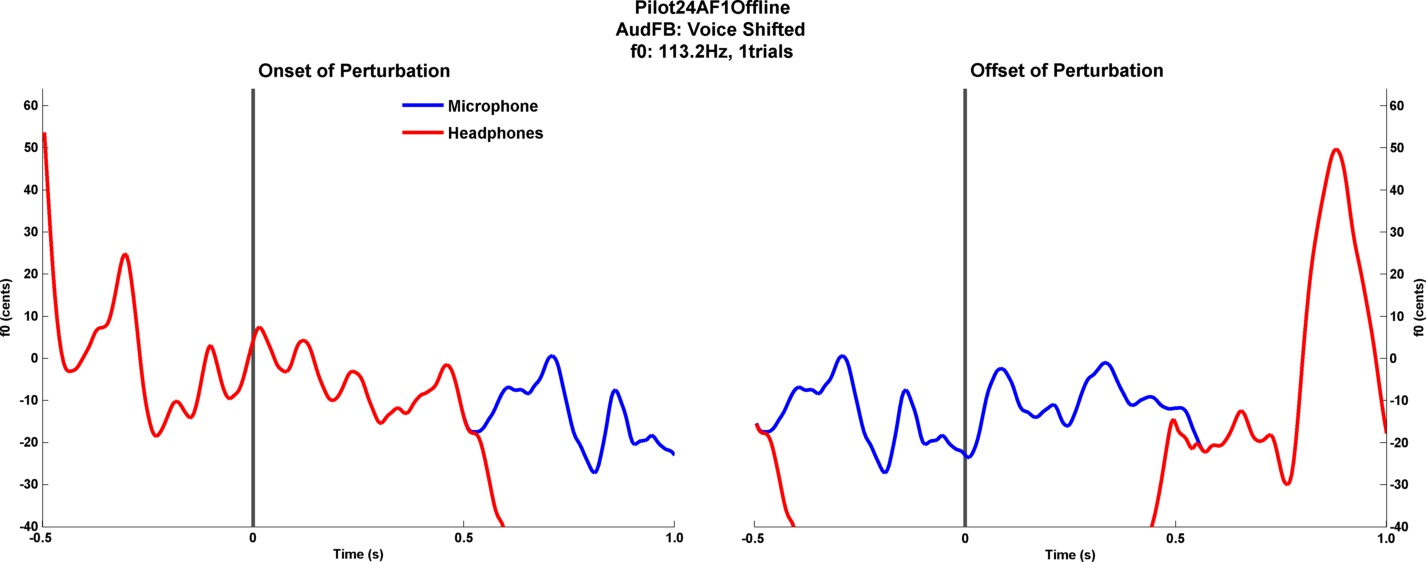
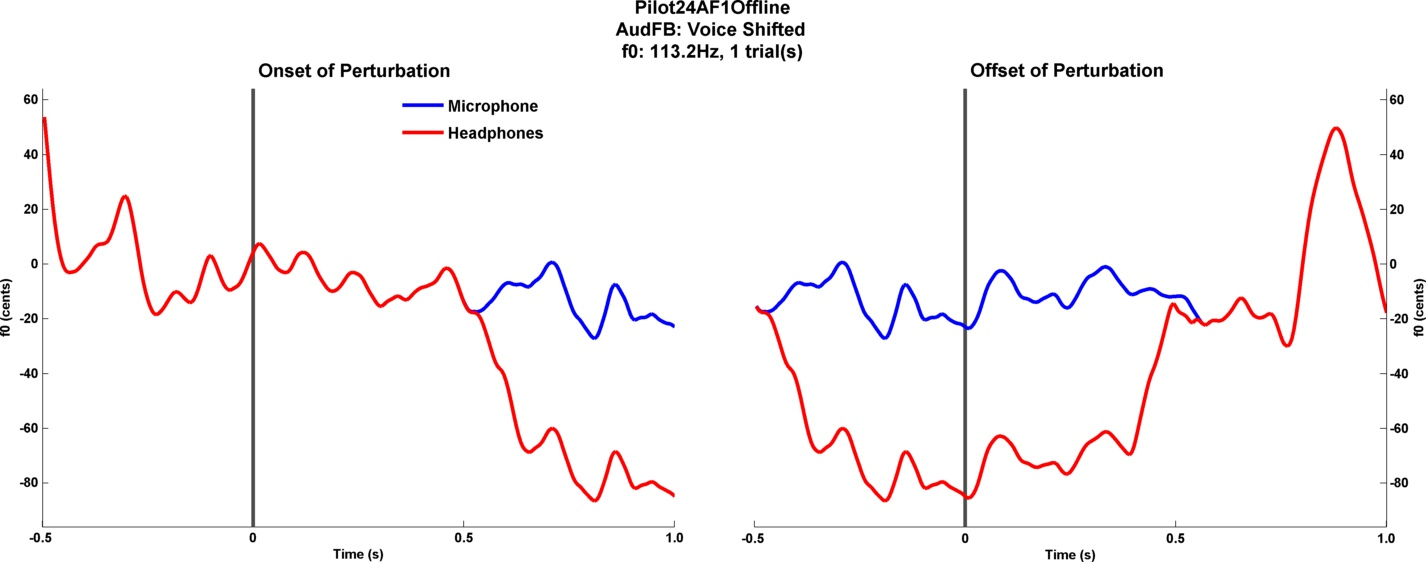
remembered to change the limit name
and now the graph shows the whole picture

diff --git a/Analysis/dfAnalysisAudapter.m b/Analysis/dfAnalysisAudapter.m
@@ -1,7 +1,4 @@
 function [auAn, auRes] = dfAnalysisAudapter(dirs, expParam, rawData, bTf0b, AudFlag)
-
-%dirs, expParam, DAQin, bTf0b, AudFlag
-
 %Analyses the microphone data from the somatosensory perturbation
 %experiment. Measures the change in f0 over each trial, and each run for a
 %given participant. At the end it approximates a general response to

diff --git a/Analysis/drawAudRespMeanTrial.m b/Analysis/drawAudRespMeanTrial.m
@@ -16,7 +16,7 @@ meanf0HeadOnset  = res.audioHf0MeanPert(:,1);
 CIf0HeadOnset    = res.audioHf0MeanPert(:,2);
 meanf0HeadOffset = res.audioHf0MeanPert(:,3);
 CIf0HeadOffset   = res.audioHf0MeanPert(:,4);
-limits           = res.limitsAmean;
+limits           = res.limitsAMH;
 
 plotpos = [10 100];
 plotdim = [1600 600];

diff --git a/Analysis/OfflineAudapterPlay.m b/Analysis/OfflineAudapterPlay.m
@@ -38,7 +38,7 @@ switch pertType
         pertTypeSw = 1;
 end
 
-collectNewData         = 1; %Boolean
+collectNewData         = 0; %Boolean
 
 %Experiment Configurations
 expParam.project      = 'Dissociating-Role-of-Feedback-in-Voice-Motor-Control';
